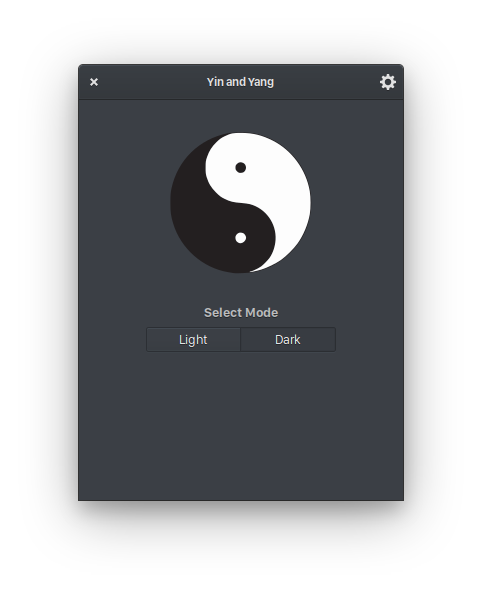
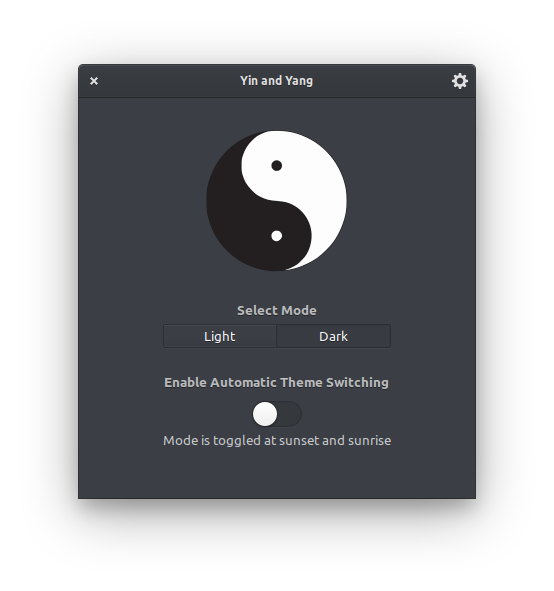
Update screenshots and readme
Former-commit-id: 5941659b97051068a804b2bb99434f5ac0939df6

diff --git a/README.md b/README.md
@@ -28,9 +28,10 @@
 - [X] Pantheon Code Editor Theme Switching
 - [X] Firefox Theme Switching
 - [X] Wallpaper Background Switching
-- [ ] Automatic theme switching at a specific time
-- [ ] Wingpanel Integration
+- [X] Automatic theme switching when nightlight is enabled
+- [X] Wingpanel Integration
 - [ ] Notifications
+- [ ] Custom Icon (Desktop and Wingpanel)
 
 ## Future Integrations
 
